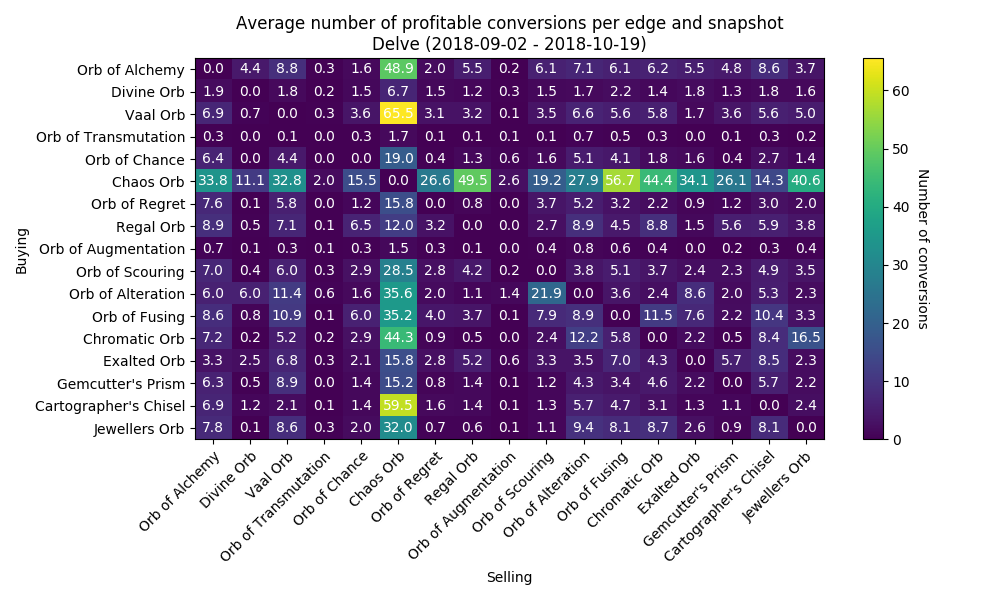
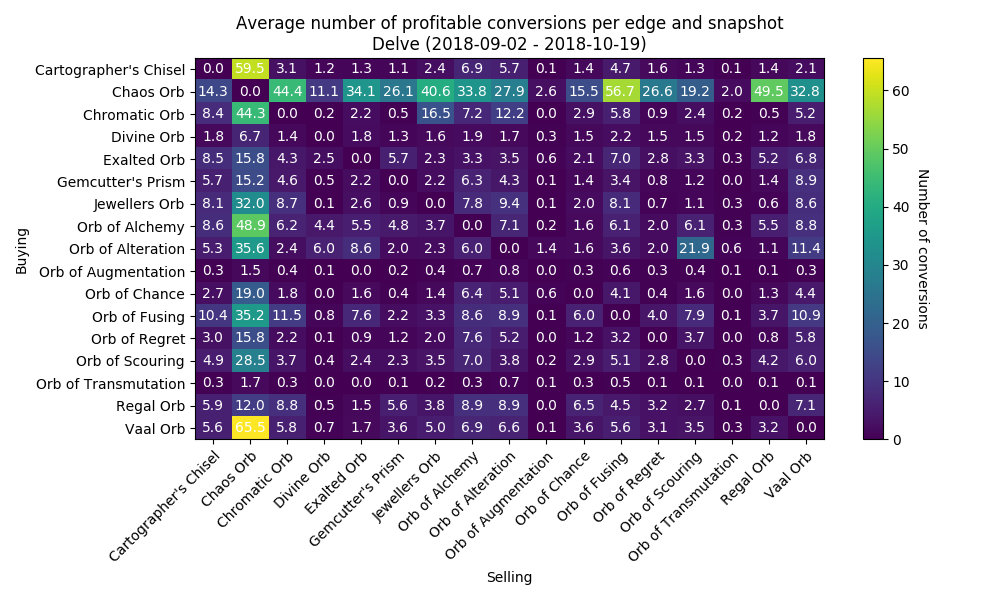
Update analysis tooling and results

Changed region(s): [[0.031, 0.09, 0.837, 0.93], [0.806, 0.66, 0.837, 0.69], [0.093, 0.9, 0.124, 0.93]]

diff --git a/data_analysis/analysis.py b/data_analysis/analysis.py
@@ -4,6 +4,7 @@ from matplotlib import pyplot as plt
 import itertools
 import argparse
 import operator
+from src.constants import currencies as all_currencies
 
 
 """
@@ -63,8 +64,6 @@ def number_of_edges_between_currencies_per_instance(data, timestamps):
 
     assert len(data) == len(timestamps)
 
-    currencies = list(data[0]["currencies"].keys())
-
     daily_edges = []
     for i in range(len(data)):
         edges = extract_transaction_edges(data[i])
@@ -94,7 +93,8 @@ def number_of_edges_between_currencies_per_instance(data, timestamps):
     # x = currencies
     # y = currencies
     z = []
-    for combo in itertools.product(currencies, repeat=2):
+    combos = itertools.product(currencies, repeat=2)
+    for combo in combos:
         key = "{}-{}".format(combo[0], combo[1])
         if key in key_groups:
             z.append(key_groups[key]/len(timestamps))
@@ -129,8 +129,10 @@ def plot_heatmap(x, y, z, league, start_date, end_date, x_label="Selling", y_lab
 
 def find_relevant_currency_hops(data, minimum=.25):
     timestamps = [x["timestamp"] for x in data]
-    key_groups, _ = number_of_edges_between_currencies_per_instance(data, timestamps)
-    k = filter(lambda x: True if x[1] / len(timestamps) > minimum else False, key_groups.items())
+    key_groups, _ = number_of_edges_between_currencies_per_instance(
+        data, timestamps)
+    k = filter(lambda x: True if x[1] / len(timestamps)
+               > minimum else False, key_groups.items())
     m = map(lambda x: (x[0], x[1] / len(timestamps)), k)
     sorted_groups = sorted(m, key=operator.itemgetter(1))
     sorted_groups.reverse()
@@ -155,12 +157,15 @@ if __name__ == "__main__":
     min_timestamp = timestamps[0].split(" ")[0]
     max_timestamp = timestamps[-1].split(" ")[0]
     league = data[0]["league"]
-    currencies = list(data[0]["currencies"].keys())
+    currencies = sorted(all_currencies)
 
     # stuff_per_day(data, timestamps)
     # # Heatmap
-    _, heatmap_data = number_of_edges_between_currencies_per_instance(data, timestamps)
-    fig, ax = plot_heatmap(currencies, currencies, heatmap_data, league, min_timestamp, max_timestamp)
-    plt.savefig("data_analysis/results/heatmap_{}_{}-{}".format(league, min_timestamp, max_timestamp))
+    _, heatmap_data = number_of_edges_between_currencies_per_instance(
+        data, timestamps)
+    fig, ax = plot_heatmap(currencies, currencies,
+                           heatmap_data, league, min_timestamp, max_timestamp)
+    plt.savefig("data_analysis/results/heatmap_{}_{}-{}".format(league,
+                                                                min_timestamp, max_timestamp))
     # Relevant currency hops
     # hops = find_relevant_currency_hops(data)

diff --git a/data_analysis/README.md b/data_analysis/README.md
@@ -4,37 +4,43 @@
 
 Everything I present in this section is very experimental and might be completely wrong. This is just something I enjoy personally without any formal affiliation to the topic of data science, so be nice and don't take anything too seriously.
 
-With a working poe.trade crawler we can now collect currency trading data and try to gain some insights from it. In this section I'll try to document what I've tried to achieve this.
+With a working trade crawler we can now collect currency trading data and try to gain some insights from it. In this section I'll try to document what I've tried to achieve this.
 
 ## Setup
-I have collected currency trading information via this tool for a fixed set of currencies, about every ten minutes during `2018-05-14` until `2018-05-24`. 
+I have collected currency trading information via this tool for a fixed set of currencies, about every thirty minutes during the time the Delve leagues were active.
+This leaves me with regular snapshots for the time between `2018-09-02` until `2018-10-19` for the leagues `Delve`, `Hardcore Delve`, `Standard` and `Hardcore`.
 
 The set of currencies was more or less consciously chosen. There are a lot of common and niche currencies I have not included, but the list for this test run was:
 
-<img src="https://d1u5p3l4wpay3k.cloudfront.net/pathofexile_gamepedia/c/cb/Orb_of_Augmentation_inventory_icon.png?version=c658d2f16f22512f9e524c1b2ad58788" width="32"/><img src="https://d1u5p3l4wpay3k.cloudfront.net/pathofexile_gamepedia/6/67/Orb_of_Transmutation_inventory_icon.png?version=2f95dd6abd2e9e6eb5a5098350f444b9" width="32"/><img src="https://d1u5p3l4wpay3k.cloudfront.net/pathofexile_gamepedia/f/fd/Chromatic_Orb_inventory_icon.png?version=143829f3bc33b5cd2727d057a330202b" width="32"/><img src="https://d1u5p3l4wpay3k.cloudfront.net/pathofexile_gamepedia/5/51/Orb_of_Scouring_inventory_icon.png?version=2490d92836e555d1fa9ce8b96a4cde98" width="32"/><img src="https://d1u5p3l4wpay3k.cloudfront.net/pathofexile_gamepedia/9/9c/Chaos_Orb_inventory_icon.png?version=3a4a05170a16dad38a3f29c18587e872" width="32"/><img src="https://d1u5p3l4wpay3k.cloudfront.net/pathofexile_gamepedia/d/d8/Orb_of_Alteration_inventory_icon.png?version=cf6e20cf8835884b69ca50a56bc076de" width="32"/><img src="https://d1u5p3l4wpay3k.cloudfront.net/pathofexile_gamepedia/5/55/Cartographer%27s_Chisel_inventory_icon.png?version=0c4cfe265e9b3bc8bc831dd60674f858" width="32"/><img src="https://d1u5p3l4wpay3k.cloudfront.net/pathofexile_gamepedia/e/e2/Gemcutter%27s_Prism_inventory_icon.png?version=1bce839e57a840244de6e9d07b929624" width="32"/><img src="https://d1u5p3l4wpay3k.cloudfront.net/pathofexile_gamepedia/6/62/Orb_of_Fusing_inventory_icon.png?version=442fbda832963ee3a42207bef33637a0" width="32"/><img src="https://d1u5p3l4wpay3k.cloudfront.net/pathofexile_gamepedia/3/33/Regal_Orb_inventory_icon.png?version=20f63c824d34f861178e0f23d13bbd14" width="32"/><img src="https://d1u5p3l4wpay3k.cloudfront.net/pathofexile_gamepedia/9/9f/Orb_of_Alchemy_inventory_icon.png?version=6a3df396aa93c31adceb0f9afe117541" width="32"/><img src="https://d1u5p3l4wpay3k.cloudfront.net/pathofexile_gamepedia/2/26/Exalted_Orb_inventory_icon.png?version=010520296d3532afddbb609b1a4fe45b" width="32"/><img src="https://d1u5p3l4wpay3k.cloudfront.net/pathofexile_gamepedia/a/a8/Orb_of_Regret_inventory_icon.png?version=08bf23a9c60c5afc34bda1786ed369bd" width="32"/><img src="https://d1u5p3l4wpay3k.cloudfront.net/pathofexile_gamepedia/4/49/Jeweller%27s_Orb_inventory_icon.png?version=1a955998de8bce79f034434e273ed611" width="32"/>
+<img src="https://d1u5p3l4wpay3k.cloudfront.net/pathofexile_gamepedia/c/cb/Orb_of_Augmentation_inventory_icon.png?version=c658d2f16f22512f9e524c1b2ad58788" width="32"/><img src="https://d1u5p3l4wpay3k.cloudfront.net/pathofexile_gamepedia/6/67/Orb_of_Transmutation_inventory_icon.png?version=2f95dd6abd2e9e6eb5a5098350f444b9" width="32"/><img src="https://d1u5p3l4wpay3k.cloudfront.net/pathofexile_gamepedia/f/fd/Chromatic_Orb_inventory_icon.png?version=143829f3bc33b5cd2727d057a330202b" width="32"/><img src="https://d1u5p3l4wpay3k.cloudfront.net/pathofexile_gamepedia/5/51/Orb_of_Scouring_inventory_icon.png?version=2490d92836e555d1fa9ce8b96a4cde98" width="32"/><img src="https://d1u5p3l4wpay3k.cloudfront.net/pathofexile_gamepedia/9/9c/Chaos_Orb_inventory_icon.png?version=3a4a05170a16dad38a3f29c18587e872" width="32"/><img src="https://d1u5p3l4wpay3k.cloudfront.net/pathofexile_gamepedia/d/d8/Orb_of_Alteration_inventory_icon.png?version=cf6e20cf8835884b69ca50a56bc076de" width="32"/><img src="https://d1u5p3l4wpay3k.cloudfront.net/pathofexile_gamepedia/5/55/Cartographer%27s_Chisel_inventory_icon.png?version=0c4cfe265e9b3bc8bc831dd60674f858" width="32"/><img src="https://d1u5p3l4wpay3k.cloudfront.net/pathofexile_gamepedia/e/e2/Gemcutter%27s_Prism_inventory_icon.png?version=1bce839e57a840244de6e9d07b929624" width="32"/><img src="https://d1u5p3l4wpay3k.cloudfront.net/pathofexile_gamepedia/6/62/Orb_of_Fusing_inventory_icon.png?version=442fbda832963ee3a42207bef33637a0" width="32"/><img src="https://d1u5p3l4wpay3k.cloudfront.net/pathofexile_gamepedia/3/33/Regal_Orb_inventory_icon.png?version=20f63c824d34f861178e0f23d13bbd14" width="32"/><img src="https://d1u5p3l4wpay3k.cloudfront.net/pathofexile_gamepedia/9/9f/Orb_of_Alchemy_inventory_icon.png?version=6a3df396aa93c31adceb0f9afe117541" width="32"/><img src="https://d1u5p3l4wpay3k.cloudfront.net/pathofexile_gamepedia/2/26/Exalted_Orb_inventory_icon.png?version=010520296d3532afddbb609b1a4fe45b" width="32"/><img src="https://d1u5p3l4wpay3k.cloudfront.net/pathofexile_gamepedia/a/a8/Orb_of_Regret_inventory_icon.png?version=08bf23a9c60c5afc34bda1786ed369bd" width="32"/><img src="https://d1u5p3l4wpay3k.cloudfront.net/pathofexile_gamepedia/4/49/Jeweller%27s_Orb_inventory_icon.png?version=1a955998de8bce79f034434e273ed611" width="32"/><img src="https://d1u5p3l4wpay3k.cloudfront.net/pathofexile_gamepedia/5/58/Divine_Orb_inventory_icon.png?version=1cb4cef4c16efed714eb1a01977ed5c3" width="32"/><img src="https://d1u5p3l4wpay3k.cloudfront.net/pathofexile_gamepedia/2/2c/Vaal_Orb_inventory_icon.png" width="32"/>
 
-For each 2-permuation of currencies from the above list, I request trade offers from [poe.trade](http://poe.trade). For each list of offers, I filter out those who do not come with stock information, because this piece of information is important for constructing profitable trading paths, and then select the first five offers from these.
+For each 2-permutation of currencies from the list above, I request trade offers from [poe.com/trade](http://pathofexile.com/trade). For each list of offers, I filter out those who do not come with stock information, because this piece of information is important for constructing profitable trading paths, and then select the first five offers from these.
 
-For the list of 14 currencies above this makes 182 permutations, 5 offers each, resulting in 910 offers at max. At this point I'd like to introduce `transaction` as a synonym for an offer from [poe.trade](http://poe.trade).
+For the list of 14 currencies above this makes 182 permutations, 5 offers each, resulting in 910 offers at max. At this point I'd like to introduce `transaction` as a synonym for an offer on [poe.com/trade](http://pathofexile.com/trade).
 
 From this list of transactions, I construct a fully-meshed graph. For each currency from the above list, I start a breadth-first search to find all profitable trading paths (with a maximum length of 3 transactions) starting **AND** ending in that currency. So at the end of this I have 14 lists of profitable trading paths along this transaction graph. I call these trading paths `conversions`.
 
-At this point I'd like to clarify that my definition of a conversion being **profitable** means that you have more of the respective currency after serially undertaking every transaction of the conversion. This means that the profitability of a conversion can solely rely on one of many transaction in the conversion. This is important to keep in mind for the heatmap visualization below. 
+At this point I'd like to clarify that my definition of a conversion being **profitable** means that you have more of the respective currency after serially undertaking every transaction of the conversion. This means that the profitability of a conversion can solely rely on one of many transaction in the conversion. This is important to keep in mind for the heatmap visualization below.
 
-## Results
-I have not done a whole lot yet, but here it is anyway.
+## Importance of certain currencies for profitable conversions
+So this should be the most interesting bit of data for now. Below you can see how often each 2-permutation transaction was found in a profitable conversion.
+Each number is calculated as the `total number of proftiable conversions for that transaction over all snapshots` divided by `number of snapshots`.
+The higher the number, the more profitable conversions were dependent on transactions between those two currencies.
+Below are heatmap visualizations for each league during the Delve season.
 
-### Number of proftiable conversions over time
-The first plot is simply showing how many profitable conversion across all currency 2-permutations there were over time. The x-axis is a bit ugly as of now, but each data point simply resembles one snapshot, one every ten minutes.
+### Delve
+![](results/delve/delve.png)
 
-![](results/number_of_profitable_conversions.png)
+### Hardcore Delve
+![](results/delve/hardcore_delve.png)
 
-### Currency importance for profitable conversions
-So this should be the most interesting bit of data for now. Below you can see how often each 2-permutation transaction was found in a profitable conversion over the whole ten day dataset. Each number is calculated as `Number of proftiable conversions with that transaction` divided by `Number of snapshots`.
+### Standard
+![](results/delve/standard.png)
 
-![](results/average_number_of_transactions_from_proftiable_conversions.png)
+### Hardcore
+![](results/delve/hardcore.png)
 
-So we can see that selling `Orbs of Regret` for `Chaos Orbs` was especially often part of profitable conversions, averaging around 69 profitable conversions per snapshot. Keep in mind that this only means that there was a least one offer on [poe.trade](http://poe.trade) from `Orbs of Regret` to `Chaos Orbs` which ended up in a lot of conversions, which in turn ended up being profitable. It does not necessarily mean that there were a lot of offers from `Orbs of Regret` to `Chaos Orbs`.
+So we can see that selling `Chaos Orbs` for `Vaal Orbs` in `Delve` was especially often part of profitable conversions, averaging around 65 profitable conversions per snapshot. Keep in mind that this only means that there was a least one offer from `Chaos Orbs` to `Vaal Orbs` which ended up in a lot of conversions, which in turn ended up being profitable. It does not necessarily mean that there were a lot of offers from `Chaos Orbs` to `Vaal Orbs`.
 
 As stated above, the maximum length of trading paths I evaluated was `3`, meaning three trades in a row, ending up at the starting currency, ie. trading `Exalted` -> `Regrets` -> `Chaos` -> `Exalted`. If the middle transaction is particularly profitable, the other two might be bad or average at best, but are improved by the middle one. At the same time, it does not mean that a certain transaction/2-permuation is especially profitable, but rather leads to a currency that itself offers more profitable transactions along the way.
 
